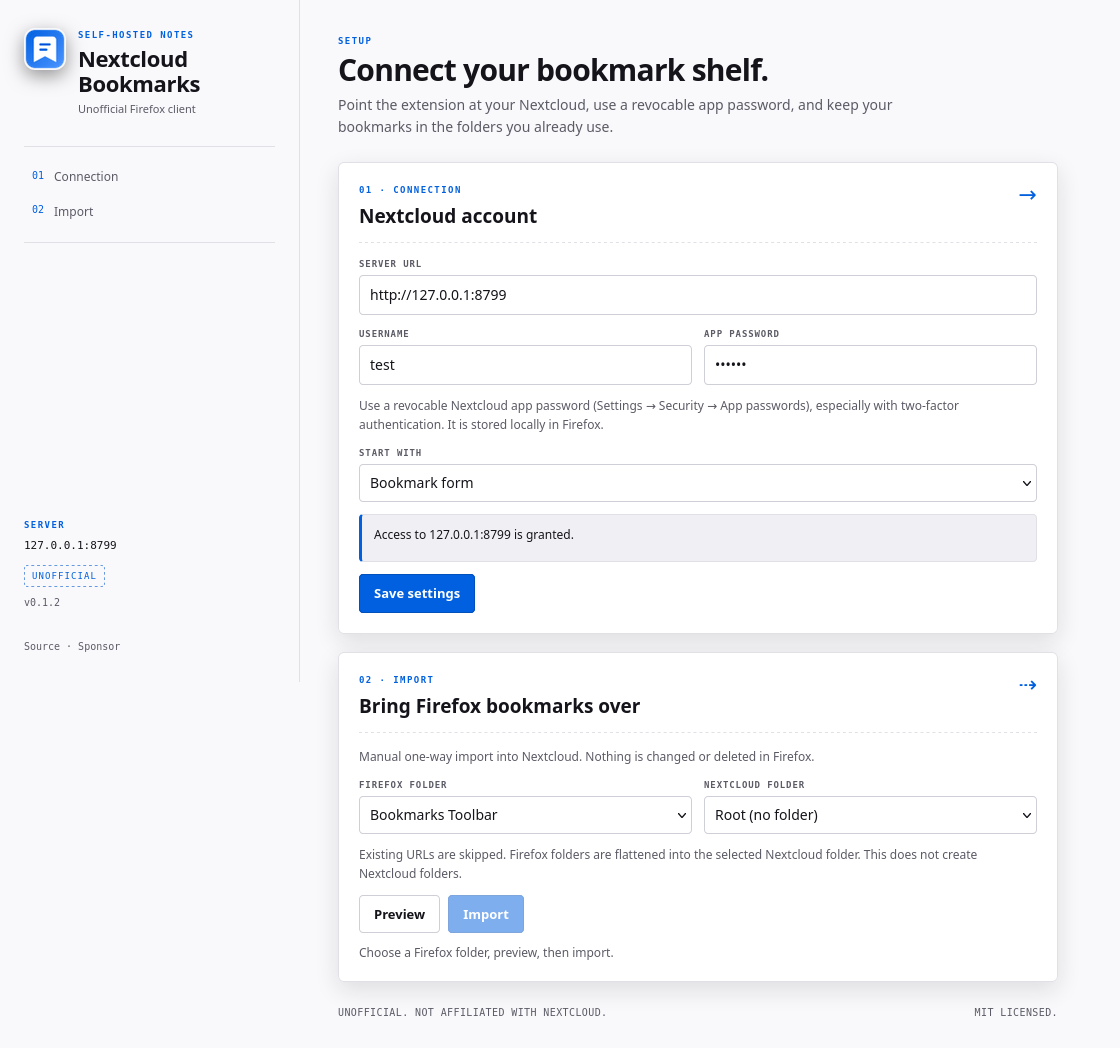
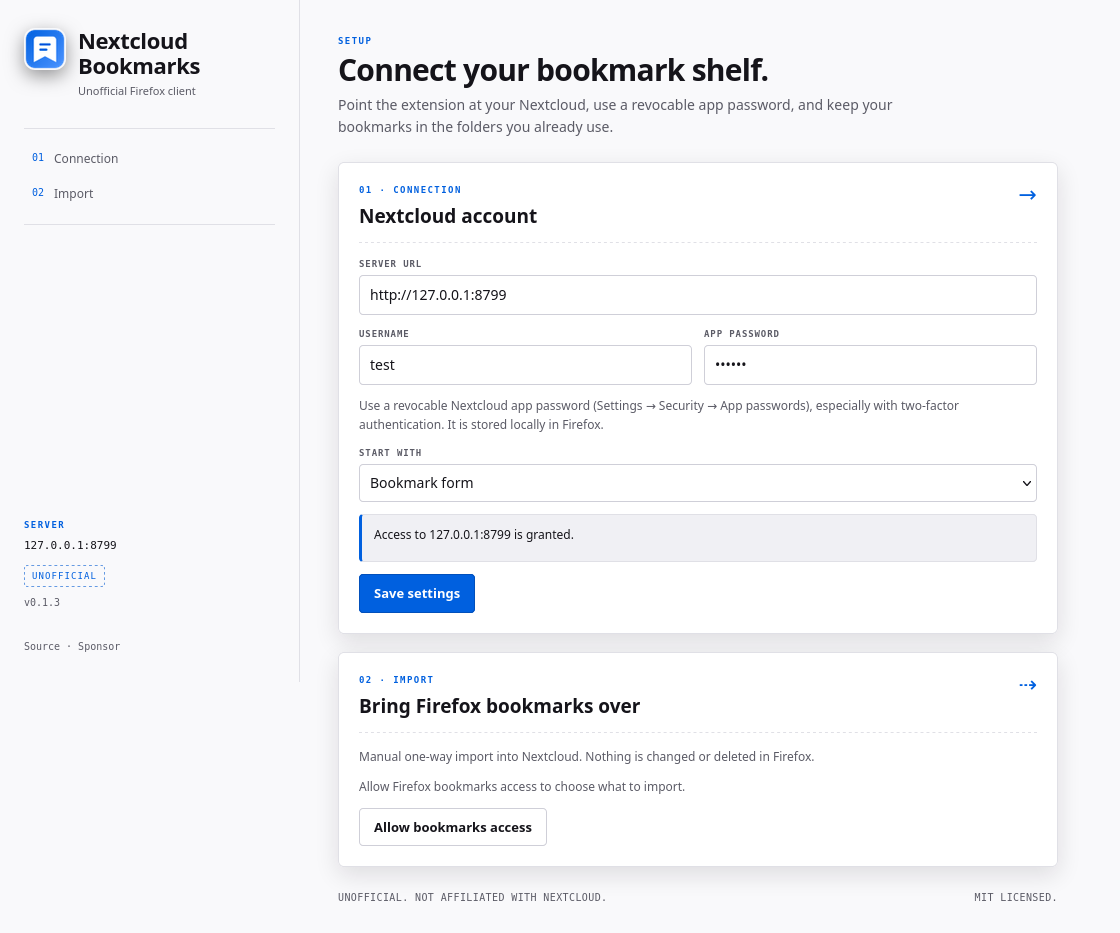
Remove invented sidebar copy and bump to 0.1.3
Drop the inaccurate 'Self-hosted notes' eyebrow from the settings sidebar; the brand title and Unofficial label carry the identity. Bump version, cache-bust stylesheets, refresh the settings screenshot, and keep the version label visible.

diff --git a/extension/options.html b/extension/options.html
@@ -4,7 +4,7 @@
   <meta charset="utf-8">
   <meta name="viewport" content="width=device-width, initial-scale=1">
   <title>Nextcloud Bookmarks settings</title>
-  <link rel="stylesheet" href="options.css?v=0.1.2">
+  <link rel="stylesheet" href="options.css?v=0.1.3">
 </head>
 <body>
   <div class="settings-shell">
@@ -12,7 +12,6 @@
       <div class="side-brand">
         <img src="icons/icon-48.png" alt="" width="42" height="42">
         <div>
-          <p class="eyebrow">Self-hosted notes</p>
           <h1>Nextcloud Bookmarks</h1>
           <p class="side-subtitle">Unofficial Firefox client</p>
         </div>

diff --git a/extension/popup.html b/extension/popup.html
@@ -4,7 +4,7 @@
   <meta charset="utf-8">
   <meta name="viewport" content="width=device-width, initial-scale=1">
   <title>Nextcloud Bookmarks</title>
-  <link rel="stylesheet" href="popup.css?v=0.1.2">
+  <link rel="stylesheet" href="popup.css?v=0.1.3">
 </head>
 <body>
   <div class="app-shell">

diff --git a/README.md b/README.md
@@ -14,7 +14,7 @@ Firefox bookmarks manually.
 > Bookmarks are separate open-source projects. This extension is an independent
 > client for the public Bookmarks REST API.
 
-**Status:** v0.1.2 · Firefox MV3 · AMO submission not yet made.
+**Status:** v0.1.3 · Firefox MV3 · AMO submission not yet made.
 
 ## Screenshots
 
